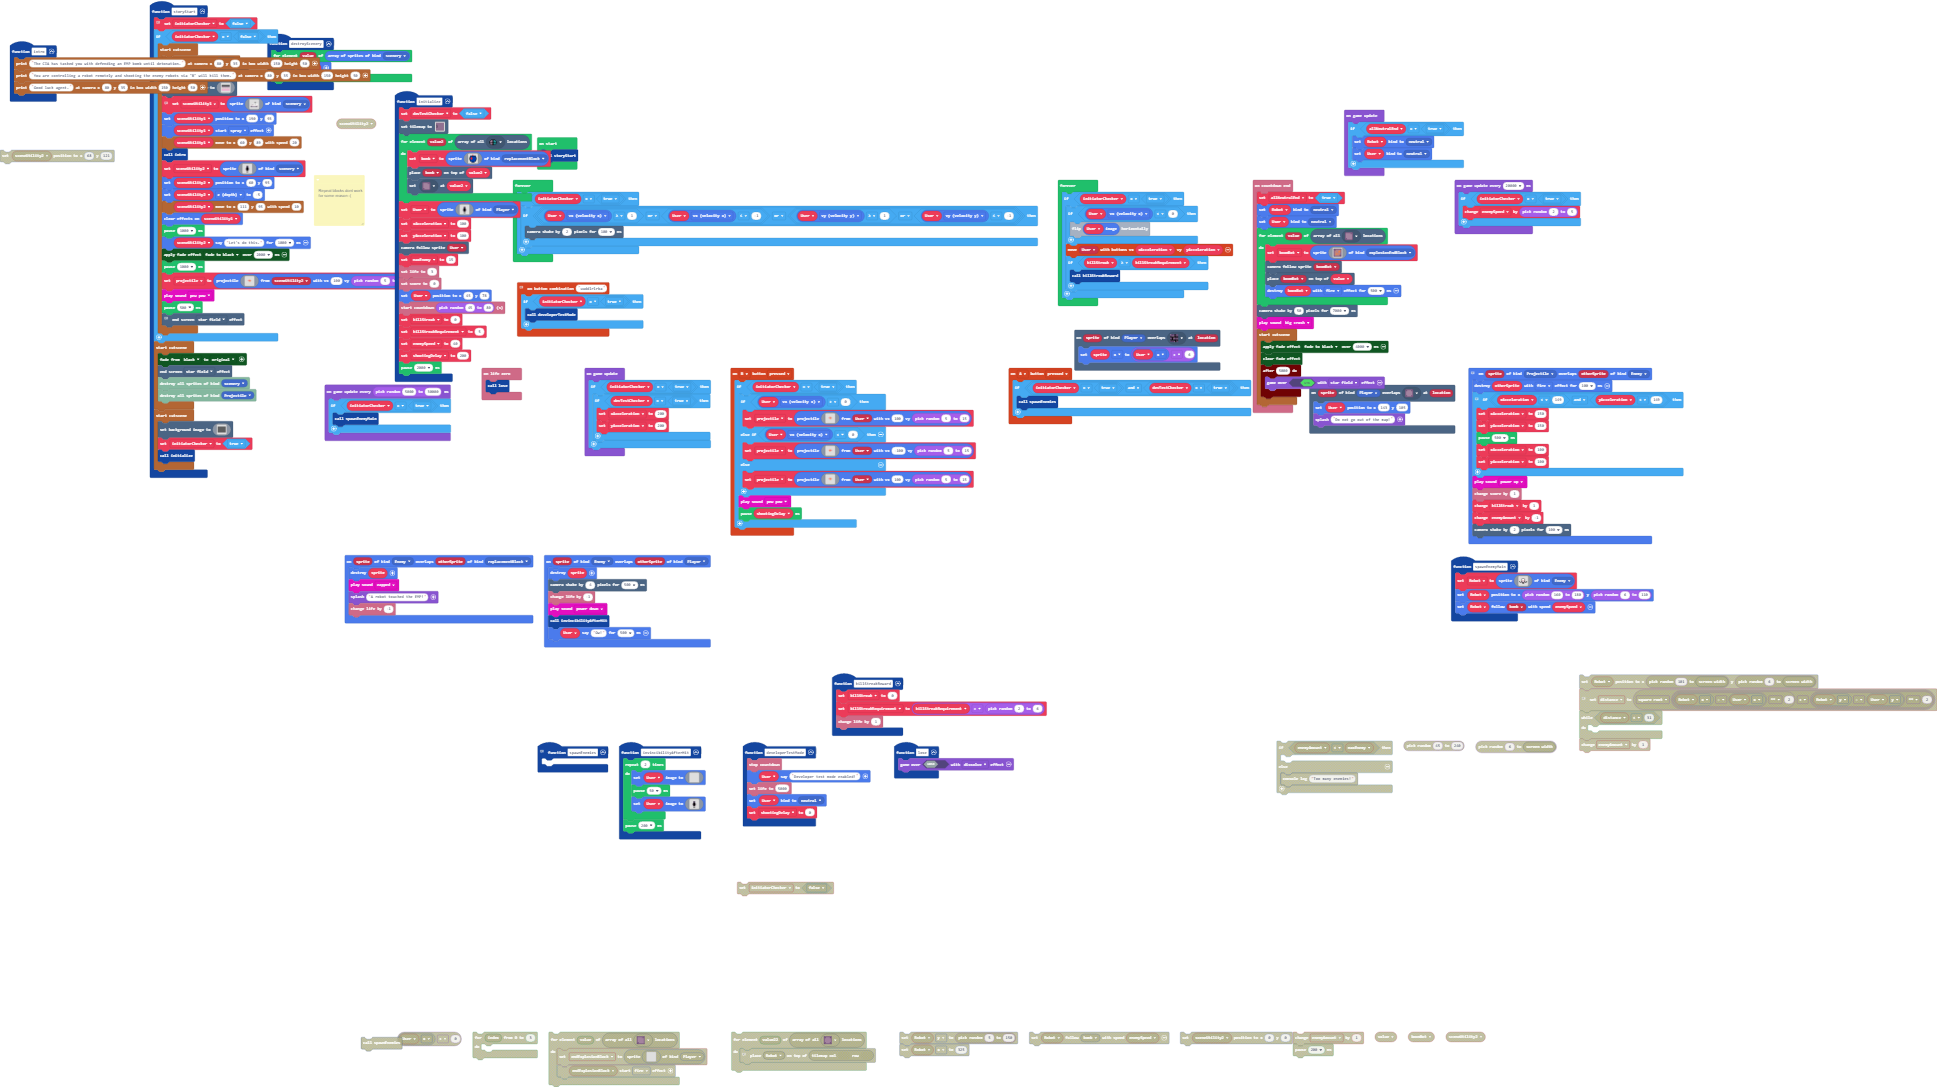
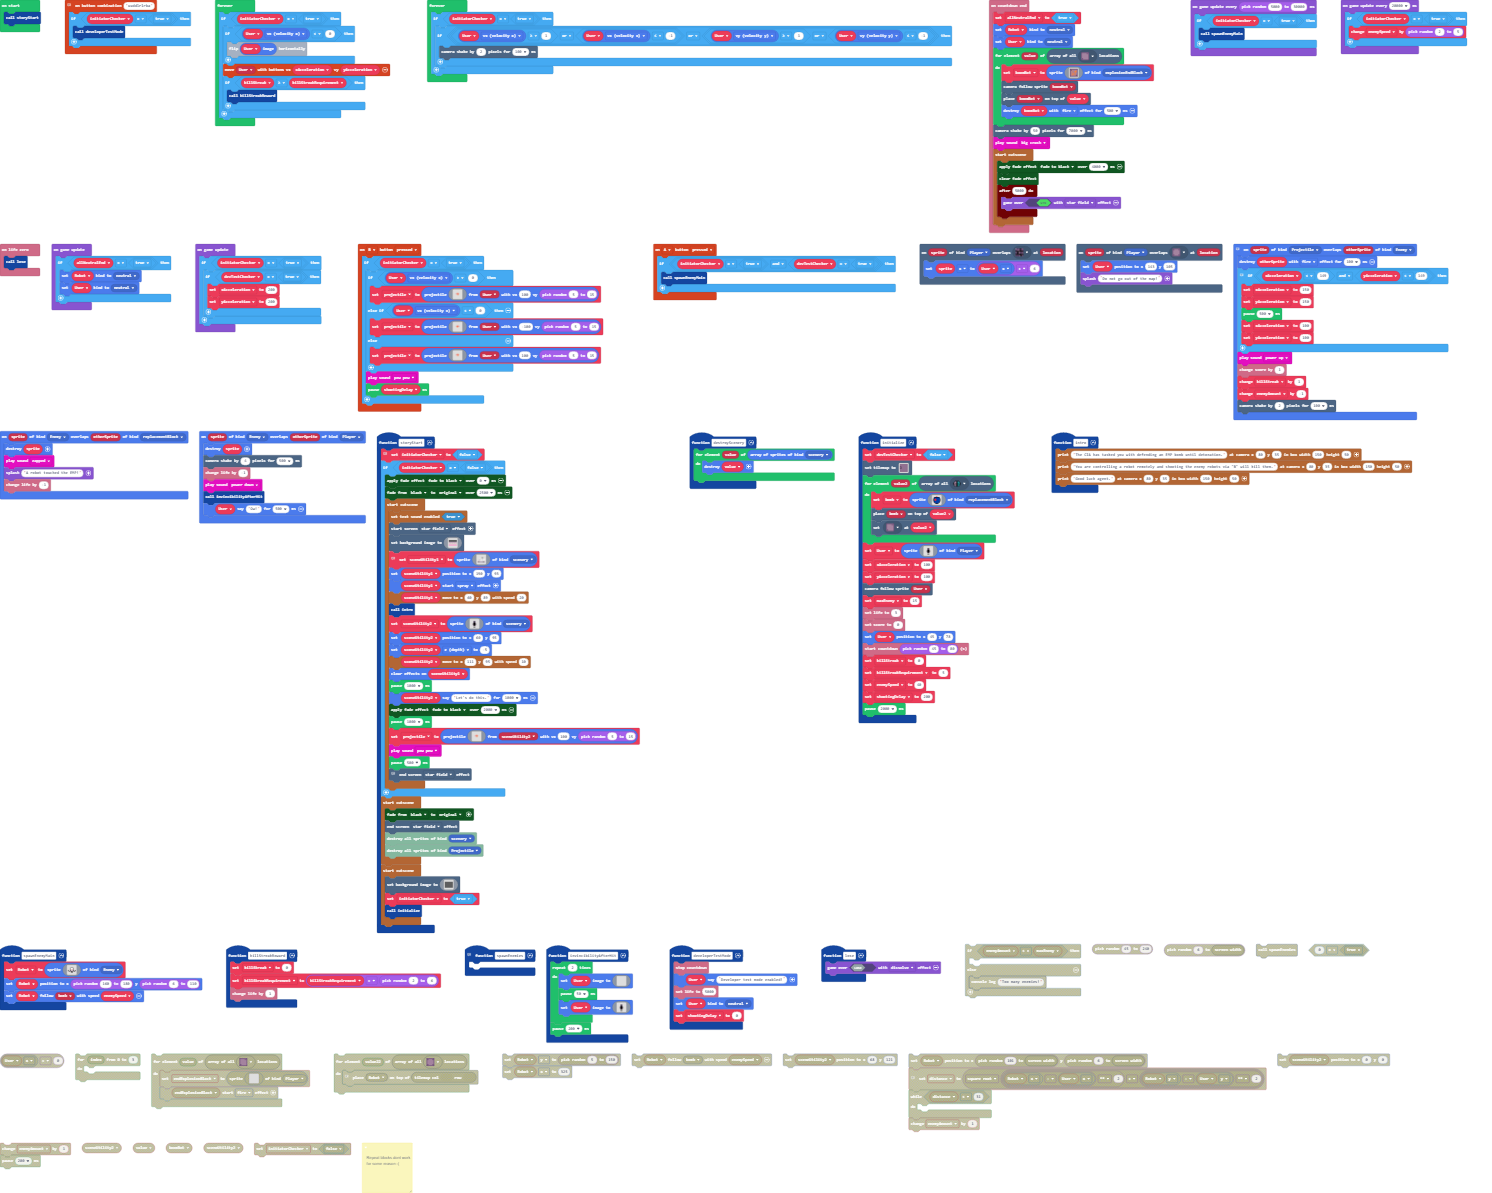
Finalized

diff --git a/main.ts b/main.ts
@@ -6,6 +6,9 @@ namespace SpriteKind {
     export const scenery = SpriteKind.create()
     export const sceneryCarType = SpriteKind.create()
 }
+/**
+ * Repeat blocks dont work for some reason :(
+ */
 controller.B.onEvent(ControllerButtonEvent.Pressed, function () {
     if (initiatorChecker == true) {
         if (User.vx > 0) {
@@ -70,13 +73,12 @@ controller.B.onEvent(ControllerButtonEvent.Pressed, function () {
         pause(shootingDelay)
     }
 })
-/**
- * Repeat blocks dont work for some reason :(
- */
 function storyStart () {
     // Serves to stop forever and gameUpdate functions till the initialization happens
     initiatorChecker = false
     if (initiatorChecker == false) {
+        color.FadeToBlack.startScreenEffect(0)
+        color.startFade(color.Black, color.originalPalette, 2500)
         story.startCutscene(function () {
             story.setSoundEnabled(true)
             effects.starField.startScreenEffect()
@@ -441,7 +443,7 @@ function storyStart () {
 }
 controller.A.onEvent(ControllerButtonEvent.Pressed, function () {
     if (initiatorChecker == true && devTestChecker == true) {
-        spawnEnemies()
+        spawnEnemyMain()
     }
 })
 sprites.onOverlap(SpriteKind.Enemy, SpriteKind.replacementBlock, function (sprite, otherSprite) {
@@ -751,19 +753,19 @@ game.onUpdate(function () {
 })
 forever(function () {
     if (initiatorChecker == true) {
-        if (User.vx >= 1 || User.vx <= -1 || (User.vy >= 1 || User.vy <= -1)) {
-            scene.cameraShake(2, 100)
-        }
-    }
-})
-forever(function () {
-    if (initiatorChecker == true) {
         if (User.vx < 0) {
             User.image.flipX()
         }
         controller.moveSprite(User, xAcceleration, yAcceleration)
         if (killStreak >= killStreakRequirement) {
             killStreakReward()
+        }
+    }
+})
+forever(function () {
+    if (initiatorChecker == true) {
+        if (User.vx >= 1 || User.vx <= -1 || (User.vy >= 1 || User.vy <= -1)) {
+            scene.cameraShake(2, 100)
         }
     }
 })

diff --git a/tilemap.g.ts b/tilemap.g.ts
@@ -34,6 +34,25 @@ namespace myTiles {
 . . . . . . . . . . . . . . . . 
 . . . . . . . . . . . . . . . . 
 `, [myTiles.transparency16,myTiles.tile4,myTiles.tile5,myTiles.tile6,myTiles.tile7], TileScale.Sixteen);
+            case "level2":
+            case "level2":return tiles.createTilemap(hex`1000100000000000000000000000000000000000000000000000000000000000000000000000000000000000000000000000000000000000000000000000000000000000000000000000000000000000000000000000000000000000000000000000000000000000000000000000000000000000000000000000000000000000000000000000000000000000000000000000000000000000000000000000000000000000000000000000000000000000000000000000000000000000000000000000000000000000000000000000000000000000000000000000000000000000000000000000000000000000000000000000000000000000000000000000000000000000`, img`
+. . . . . . . . . . . . . . . . 
+. . . . . . . . . . . . . . . . 
+. . . . . . . . . . . . . . . . 
+. . . . . . . . . . . . . . . . 
+. . . . . . . . . . . . . . . . 
+. . . . . . . . . . . . . . . . 
+. . . . . . . . . . . . . . . . 
+. . . . . . . . . . . . . . . . 
+. . . . . . . . . . . . . . . . 
+. . . . . . . . . . . . . . . . 
+. . . . . . . . . . . . . . . . 
+. . . . . . . . . . . . . . . . 
+. . . . . . . . . . . . . . . . 
+. . . . . . . . . . . . . . . . 
+. . . . . . . . . . . . . . . . 
+. . . . . . . . . . . . . . . . 
+`, [myTiles.transparency16], TileScale.Sixteen);
         }
         return null;
     })
